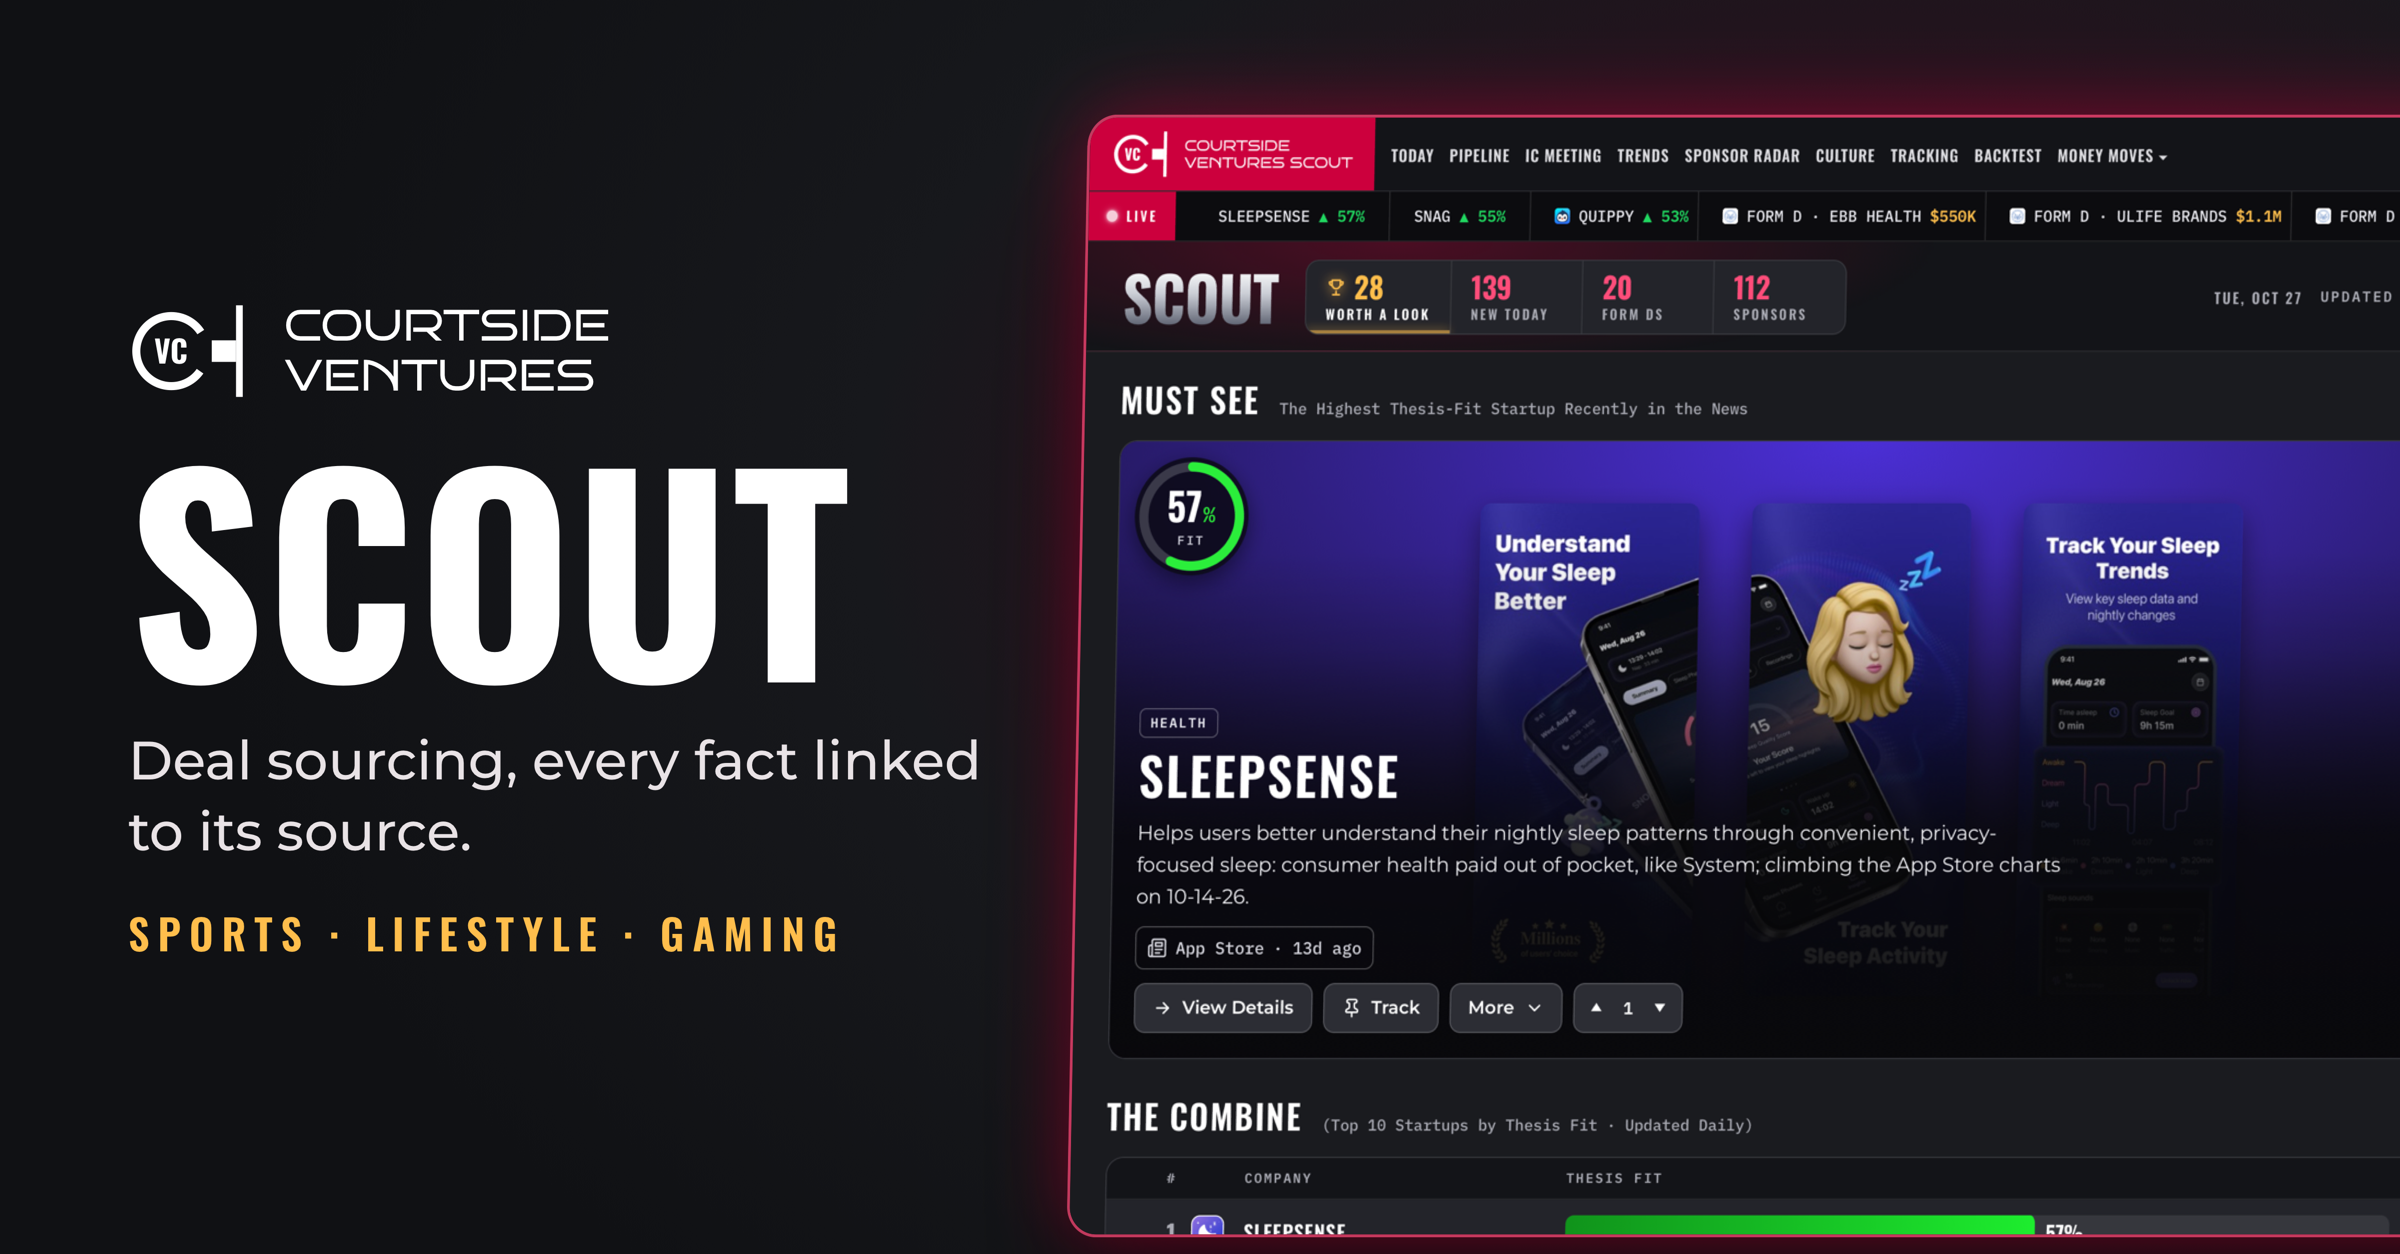
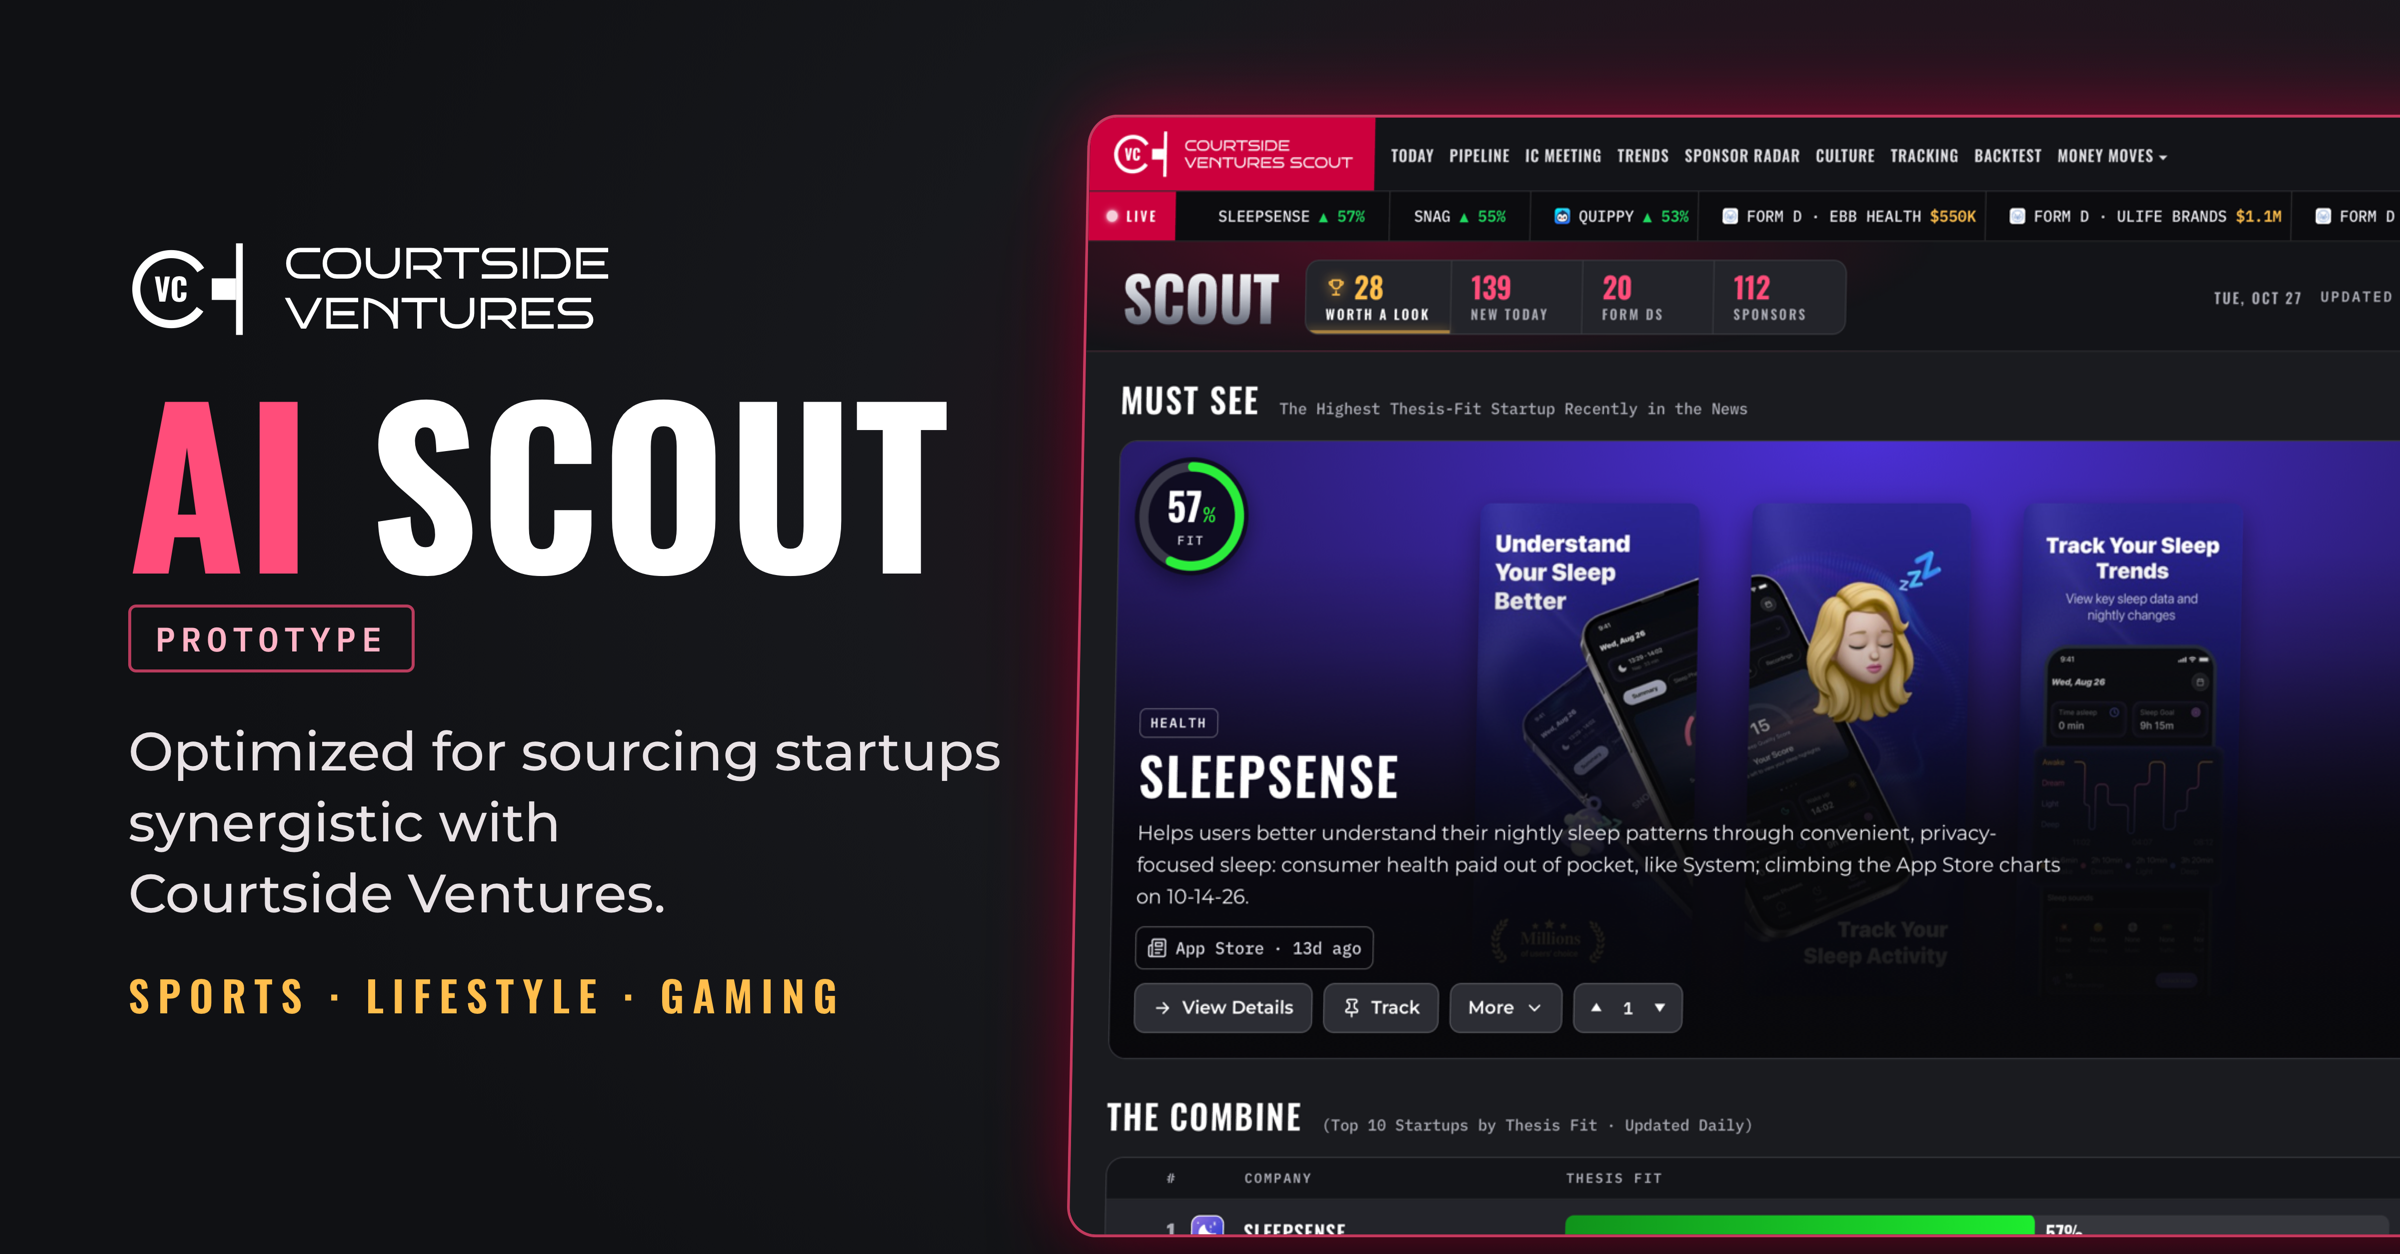
Share image speaks the new language: AI SCOUT, Prototype, sourcing startups synergistic with Courtside Ventures

Changed region(s): [[0.0312, 0.1866, 0.4062, 0.5598], [0.0312, 0.5909, 0.4375, 0.8086]]

diff --git a/design/share-image/variations.html b/design/share-image/variations.html
@@ -450,7 +450,7 @@ header h1{font:700 44px/1 Oswald;text-transform:uppercase;letter-spacing:.02em;m
 <div><h3>In the Feed (Phone)</h3><div class="li phone" style="width:343px"><img src="a.png" alt="" width="343"><div class="li-t"><b>Courtside Ventures Scout</b><span>courtside-ventures-scout.vercel.app</span></div></div></div></div>
 <a class="dl" href="a.png" download="scout-share-a.png">Download PNG</a></section><section class="var" data-variation="B" id="opt-B">
 <h2><span class="id">B</span>Product Shot<span class="tag on">On-Profile</span></h2>
-<p>The real Today page, tilted, with a red edge light, beside a big SCOUT. An investor sees what the site is before clicking. Uses the README screenshot (10-27-26).</p>
+<p>The real Today page, tilted, with a red edge light, beside a big AI SCOUT. An investor sees what the site is before clicking. Uses the README screenshot (10-27-26).</p>
 <img class="full" src="b.png" alt="Product Shot">
 <div class="sizes"><div><h3>In a LinkedIn Message (Laptop)</h3><div class="li msg" style="width:552px"><img src="b.png" alt="" width="552"><div class="li-t"><b>Courtside Ventures Scout</b><span>courtside-ventures-scout.vercel.app</span></div></div></div>
 <div><h3>In the Feed (Phone)</h3><div class="li phone" style="width:343px"><img src="b.png" alt="" width="343"><div class="li-t"><b>Courtside Ventures Scout</b><span>courtside-ventures-scout.vercel.app</span></div></div></div></div>
@@ -473,4 +473,4 @@ header h1{font:700 44px/1 Oswald;text-transform:uppercase;letter-spacing:.02em;m
 <div class="sizes"><div><h3>In a LinkedIn Message (Laptop)</h3><div class="li msg" style="width:552px"><img src="e.png" alt="" width="552"><div class="li-t"><b>Courtside Ventures Scout</b><span>courtside-ventures-scout.vercel.app</span></div></div></div>
 <div><h3>In the Feed (Phone)</h3><div class="li phone" style="width:343px"><img src="e.png" alt="" width="343"><div class="li-t"><b>Courtside Ventures Scout</b><span>courtside-ventures-scout.vercel.app</span></div></div></div></div>
 <a class="dl" href="e.png" download="scout-share-e.png">Download PNG</a></section></main>
-<script type="application/json" id="variation-manifest">{"project": "Courtside Ventures", "subject": "Scout share image (LinkedIn link preview)", "surface": "layout", "claude_rec": "B", "compares": ["visual.layout", "visual.ornament", "visual.font"], "options": [{"id": "A", "name": "Red Banner", "desc": "The README banner, laid out for LinkedIn: Scout's red, the court rings, the mark with a soft light behind it, the name in the brand face. Instantly Courtside.", "tokens": {"visual": {"bg": "red-gradient", "accent": ["#cc003d"], "saturation": "high", "ornament": "edge light", "fonts": {"display": "bruno ace", "body": "montserrat"}, "layout": "banner", "energy": "bold"}}}, {"id": "B", "name": "Product Shot", "desc": "The real Today page, tilted, with a red edge light, beside a big SCOUT. An investor sees what the site is before clicking. Uses the README screenshot (10-27-26).", "tokens": {"visual": {"bg": "dark", "accent": ["#cc003d", "#ffbe4c"], "ornament": "edge light", "fonts": {"display": "oswald", "body": "montserrat"}, "layout": "split + screenshot", "energy": "balanced"}}}, {"id": "C", "name": "Center Court", "desc": "A full basketball court from above (its 94 x 50 ft is almost exactly LinkedIn's shape), red paint in the keys, the mark in the center circle, the name across half court.", "tokens": {"visual": {"bg": "dark", "accent": ["#cc003d", "#ffbe4c"], "ornament": "motif", "fonts": {"display": "bruno ace"}, "layout": "centered", "energy": "balanced"}}}, {"id": "D", "name": "Courtside Ticket", "desc": "A courtside seat ticket: the name on the red body, three facts as ticket fields, the mark and SCOUT on a torn-off stub. Notches are cut out, with no border, as you asked on the Bonus Upload ticket.", "tokens": {"visual": {"bg": "dark", "accent": ["#cc003d"], "saturation": "high", "ornament": "object", "fonts": {"display": "bruno ace", "body": "oswald"}, "layout": "object", "energy": "bold"}}}, {"id": "E", "name": "Type Poster", "desc": "Not tried before: one face, huge size contrast, no icons, no glow. A giant SCOUT, one red rule, one line of what it does.", "tokens": {"visual": {"bg": "near-black", "accent": ["#cc003d"], "ornament": "none", "fonts": {"display": "oswald", "body": "montserrat"}, "layout": "type poster", "energy": "bold"}}}]}</script></body></html>
+<script type="application/json" id="variation-manifest">{"project": "Courtside Ventures", "subject": "Scout share image (LinkedIn link preview)", "surface": "layout", "claude_rec": "B", "compares": ["visual.layout", "visual.ornament", "visual.font"], "options": [{"id": "A", "name": "Red Banner", "desc": "The README banner, laid out for LinkedIn: Scout's red, the court rings, the mark with a soft light behind it, the name in the brand face. Instantly Courtside.", "tokens": {"visual": {"bg": "red-gradient", "accent": ["#cc003d"], "saturation": "high", "ornament": "edge light", "fonts": {"display": "bruno ace", "body": "montserrat"}, "layout": "banner", "energy": "bold"}}}, {"id": "B", "name": "Product Shot", "desc": "The real Today page, tilted, with a red edge light, beside a big AI SCOUT. An investor sees what the site is before clicking. Uses the README screenshot (10-27-26).", "tokens": {"visual": {"bg": "dark", "accent": ["#cc003d", "#ffbe4c"], "ornament": "edge light", "fonts": {"display": "oswald", "body": "montserrat"}, "layout": "split + screenshot", "energy": "balanced"}}}, {"id": "C", "name": "Center Court", "desc": "A full basketball court from above (its 94 x 50 ft is almost exactly LinkedIn's shape), red paint in the keys, the mark in the center circle, the name across half court.", "tokens": {"visual": {"bg": "dark", "accent": ["#cc003d", "#ffbe4c"], "ornament": "motif", "fonts": {"display": "bruno ace"}, "layout": "centered", "energy": "balanced"}}}, {"id": "D", "name": "Courtside Ticket", "desc": "A courtside seat ticket: the name on the red body, three facts as ticket fields, the mark and SCOUT on a torn-off stub. Notches are cut out, with no border, as you asked on the Bonus Upload ticket.", "tokens": {"visual": {"bg": "dark", "accent": ["#cc003d"], "saturation": "high", "ornament": "object", "fonts": {"display": "bruno ace", "body": "oswald"}, "layout": "object", "energy": "bold"}}}, {"id": "E", "name": "Type Poster", "desc": "Not tried before: one face, huge size contrast, no icons, no glow. A giant SCOUT, one red rule, one line of what it does.", "tokens": {"visual": {"bg": "near-black", "accent": ["#cc003d"], "ornament": "none", "fonts": {"display": "oswald", "body": "montserrat"}, "layout": "type poster", "energy": "bold"}}}]}</script></body></html>

diff --git a/design/share-image/build.py b/design/share-image/build.py
@@ -91,7 +91,8 @@ def b():
 body{background:radial-gradient(70% 90% at 78% 40%,#3a0a1f 0%,#17181c 60%,#101114 100%)}
 .left{position:absolute;left:64px;top:0;bottom:0;width:440px;display:flex;flex-direction:column;justify-content:center;gap:22px}
 .brand{display:flex;align-items:center;gap:16px;font:400 22px/1.15 "Bruno Ace";text-transform:uppercase}
-.big{font:700 132px/.9 Oswald;letter-spacing:.01em;text-transform:uppercase}
+.big{font:700 106px/.9 Oswald;letter-spacing:.01em;text-transform:uppercase;white-space:nowrap}
+.tag{align-self:flex-start;margin-top:-6px;padding:7px 12px;border:1.5px solid rgba(255,77,122,.7);border-radius:4px;font:600 17px/1 "IBM Plex Mono";letter-spacing:.16em;text-transform:uppercase;color:#ffb3c6}
 .big b{color:#ff4d7a;font-weight:700}
 .l{font:500 27px/1.32 Montserrat;color:#e9e3e6}
 .k{font:600 21px/1 Oswald;letter-spacing:.2em;text-transform:uppercase;color:#ffbe4c}
@@ -101,7 +102,8 @@ body{background:radial-gradient(70% 90% at 78% 40%,#3a0a1f 0%,#17181c 60%,#10111
 .shot img{width:820px;display:block}
 """
     body = (f'<div class="left"><div class="brand">{logo(46)}<span>Courtside<br>Ventures</span></div>'
-            f'<div class="big">Scout</div><div class="l">Deal sourcing, every fact linked to its source.</div>'
+            f'<div class="big"><b>AI</b> Scout</div><div class="tag">Prototype</div>'
+            f'<div class="l">Optimized for sourcing startups synergistic with Courtside&nbsp;Ventures.</div>'
             f'<div class="k">{KICKER}</div></div>'
             f'<div class="stage"><div class="shot"><img src="today.png" alt=""></div></div>')
     return page(css, body)
@@ -195,7 +197,7 @@ OPTIONS = [
      "tokens": {"visual": {"bg": "red-gradient", "accent": ["#cc003d"], "saturation": "high", "ornament": "edge light",
                            "fonts": {"display": "bruno ace", "body": "montserrat"}, "layout": "banner", "energy": "bold"}}},
     {"id": "B", "fn": b, "name": "Product Shot", "tag": "On-Profile",
-     "desc": "The real Today page, tilted, with a red edge light, beside a big SCOUT. An investor sees what the site is "
+     "desc": "The real Today page, tilted, with a red edge light, beside a big AI SCOUT. An investor sees what the site is "
              "before clicking. Uses the README screenshot (10-27-26).",
      "tokens": {"visual": {"bg": "dark", "accent": ["#cc003d", "#ffbe4c"], "ornament": "edge light",
                            "fonts": {"display": "oswald", "body": "montserrat"}, "layout": "split + screenshot", "energy": "balanced"}}},

diff --git a/design/share-image/NOTES.md b/design/share-image/NOTES.md
@@ -17,7 +17,8 @@ The picture LinkedIn, Slack, iMessage and X show when someone shares Scout's lin
 
 ## Copy of record
 
-- Title: Courtside Ventures Scout. Line: "Deal sourcing, every fact linked to its source." Kicker: Sports · Lifestyle · Gaming.
+- On the picture (10-31-26, his "Picture should match the new language"): AI SCOUT (AI in red), a Prototype tag,
+  "Optimized for sourcing startups synergistic with Courtside Ventures.", kicker Sports · Lifestyle · Gaming.
 - The title and description live in `content/share-preview.md` (Adrian edits them there). Limits: title 60, description
   125 characters (LinkedIn's message card cut the old 168-character one at 129). A unit test fails past either.
 

diff --git a/content/share-preview.md b/content/share-preview.md
@@ -5,6 +5,7 @@ What LinkedIn, Slack, iMessage and X show when someone shares Scout's link: the 
 - **Title:** 60 characters or less.
 - **Description:** 125 characters or less. LinkedIn shows it on one line and cut the old one at 129 characters (10-30-26).
 - After an edit: deploy, then refresh LinkedIn in Post Inspector. Posts and messages already sent keep their old card.
+- The words ON the picture are separate: they live in `design/share-image/build.py` (option B). Change both together.
 
 ## Title
 Courtside Ventures AI Scout (prototype)
